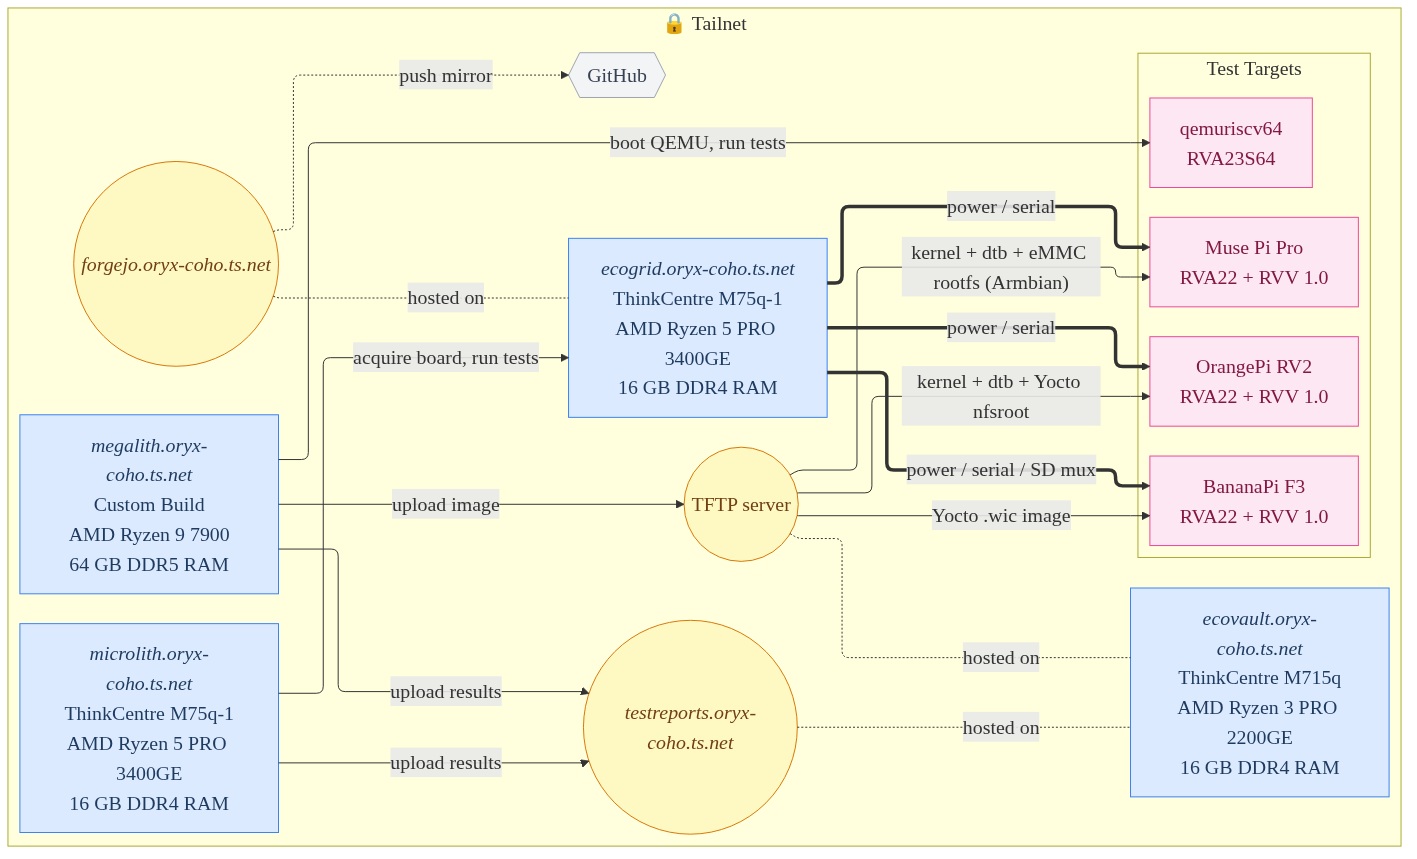
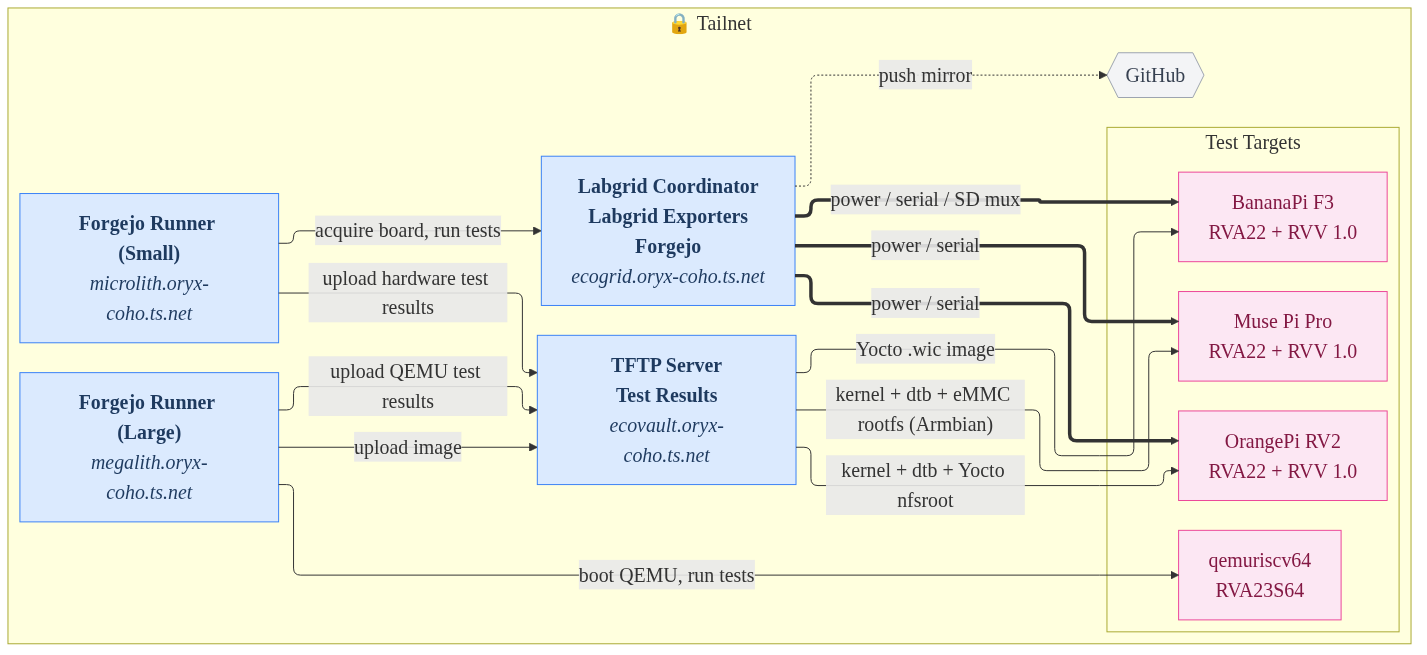
docs: bom, network: update files

diff --git a/docs/bom.md b/docs/bom.md
@@ -19,17 +19,11 @@
 
 | ID | Service | Tailscale FQDN | Host | Protocol | Port | Role |
 |----|---------|----------------|------|----------|------|------|
-| `svc_forgejo` | tgamblin's Forgejo | forgejo.oryx-coho.ts.net | `ecogrid` | — | — | Git hosting + CI (Actions) |
-| `svc_tftp` | TFTP server | — | `ecovault` | — | — | Serves bootable images to test targets |
-| `svc_reports` | Test reports server | testreports.oryx-coho.ts.net | `ecovault` | — | — | Receives and displays test results |
 
 ## Software
 
 | Host | Service | Package | Version | Role |
 |------|---------|---------|---------|------|
-| `ecogrid` | tgamblin's Forgejo | Forgejo | 15.0.1 | Git hosting + CI (Actions) |
-| `ecovault` | TFTP server | tftpd-hpa | 5.2+20240610-3 | Serves bootable images to test targets |
-| `ecovault` | Test reports server | nginx | 1.26.3-3+deb13u2 | Receives and displays test results |
 
 ## Target Boards
 
